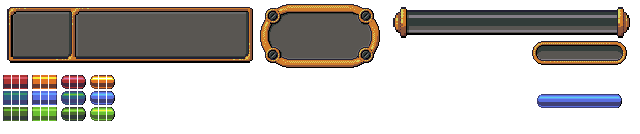
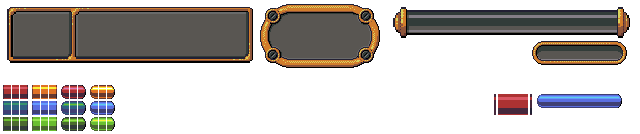
feat[life/super display]: improve render_ui LevelDisplay method to display lives and super duration
add scale_ui method to LevelDisplay to scale the life bar fragments based on max life (yet to show fragments gap), update ui spritesheet, fix typos and types to conform to mypy

Changed region(s): [[0.0, 0.5373, 0.1875, 0.9851], [0.75, 0.6866, 0.8438, 0.8657]]

diff --git a/pacman/views/display/dgame.py b/pacman/views/display/dgame.py
@@ -18,6 +18,7 @@ class LevelDisplay:
 
         self.maze_surf: pg.Surface
         self.characters: dict[str, CharacterSprites]
+        self.life_bar: pg.Surface
 
         self.cell_size: int
         self.cell_gap: int
@@ -26,6 +27,7 @@ class LevelDisplay:
 
         self.render_maze()
         self.scale_characters()
+        self.scale_ui()
 
     def coords(self, x: int, y: int, h_path: float = 0,
                v_path: float = 0) -> tuple[int, int]:
@@ -119,11 +121,33 @@ class LevelDisplay:
                             frame, (self.cell_size, self.cell_size))
                             for frame in frames]})
 
+    def scale_ui(self) -> None:
+        ui_size: tuple[int, int] = (
+            self.display.scaled_ui["level_ui"].get_size())
+        bar_w: int = int(ui_size[1] * 2.92)
+        bar_h: int = int(ui_size[1] * 0.29)
+        life_gap: int = int((self.level.max_lives - 1) / bar_w * 100)
+        life_size: int = int((bar_w - life_gap) / self.level.max_lives)
+        life_part: pg.Surface = pg.transform.scale(
+            self.display.interface["life_bar"], (life_size, bar_h))
+        bar_start: pg.Surface = pg.transform.scale(
+            self.display.interface["life_bar_s"], (ui_size[1] * 0.02, bar_h))
+        bar_end: pg.Surface = pg.transform.scale(
+            self.display.interface["life_bar_e"], (ui_size[1] * 0.02, bar_h))
+        blits: list[tuple[pg.Surface, pg.Rect]] = [
+            (bar_start, pg.Rect(0, 0, 0, 0)),
+            (bar_end, bar_end.get_rect(topright=(bar_w, 0)))]
+        for i in range(self.level.max_lives):
+            blits.insert(0, (
+                life_part, pg.Rect((life_size * i) + (life_gap * i), 0, 0, 0)))
+        self.life_bar = new_surface((bar_w, bar_h))
+        self.life_bar.blits(blits)
+
     def render_entity(
             self, name: str, char: Entity, direction: Directions
             ) -> tuple[pg.Surface, pg.Rect]:
         coords: tuple[int, int] = self.coords(*char.pos)
-        origin: Movements = Movements[
+        origin: tuple[int, int] = Movements[
             OPPOSITE_DIRECTION[direction].name].value
         offset: int = 0
         if char.direction.value != 15:
@@ -148,20 +172,36 @@ class LevelDisplay:
         ui_h: int = ui_surf.get_height()
         ui_w: int = ui_surf.get_width()
         ui_surf.fill((15, 15, 15))
-        level_id: pg.Surface = render_word(self.display.ui_styles["level"],
-            str(self.level.level_id % 100), 0)
-        score: pg.Surface = render_word(self.display.ui_styles["score"],
-            str(self.level.score % 10000), 0)
+        level_id: pg.Surface = render_word(
+            self.display.ui_styles["level"], str(self.level.level_id % 100), 0)
+        score: pg.Surface = render_word(
+            self.display.ui_styles["score"], str(self.level.score % 10000), 0)
         time: int = self.level.level_timer
-        timer: pg.Surface = render_word(self.display.ui_styles["timer"],
+        timer: pg.Surface = render_word(
+            self.display.ui_styles["timer"],
             f"{time // 60:02d}:{time % 60:02d}", 0)
 
-        visual_elements: list[tuple[pg.Surface, pg.Rect]] = [
-            (self.display.scaled_ui["level_ui"], (0, 0)),
+        life_size: tuple[int, int] = self.life_bar.get_size()
+        life_bar: tuple[pg.Surface, pg.Rect, pg.Rect] = (
+            self.life_bar, pg.Rect(ui_h * 5.66, ui_h * 0.175, 0, 0), pg.Rect(
+                0, 0, (life_size[0] - (self.level.max_lives - self.level.lives)
+                       * life_size[0] / self.level.max_lives),
+                life_size[1]))
+
+        super_size: tuple[int, int] = (
+            self.display.scaled_ui["super_bar"].get_size())
+        super_visual: tuple[pg.Surface, pg.Rect, pg.Rect] = (
+            self.display.scaled_ui["super_bar"],
+            pg.Rect(ui_h * 7.46, ui_h * 0.65, 0, 0),
+            pg.Rect(0, 0, self.level.super_anim * super_size[0]
+                    / self.level.super_duration, super_size[1]))
+
+        ui_surf.blits([
+            (self.display.scaled_ui["level_ui"], pg.Rect(0, 0, 0, 0)),
             (level_id, level_id.get_rect(midright=(ui_h * 0.91, ui_h * 0.5))),
             (score, score.get_rect(midright=(ui_h * 3.39, ui_h * 0.5))),
-            (timer, timer.get_rect(center=(ui_w / 2, ui_h / 2)))]
-        ui_surf.blits(visual_elements)
+            (timer, timer.get_rect(center=(ui_w / 2, ui_h / 2))),
+            life_bar, super_visual])
         return (ui_surf, ui_surf.get_rect())
 
     def draw(self) -> None:
@@ -252,7 +292,10 @@ class GameDisplay(Display):
             "pacman/assets/interface/life_and_energy.png")
         self.interface = {
             "level_ui": level_ui_sheet.get_sprite((0, 0), (640, 72)),
-            "super_bar": level_ui_sheet.get_sprite((532, 89), (95, 24))}
+            "life_bar": level_ui_sheet.get_sprite((498, 94), (30, 21)),
+            "life_bar_s": level_ui_sheet.get_sprite((494, 94), (2, 21)),
+            "life_bar_e": level_ui_sheet.get_sprite((530, 94), (2, 21)),
+            "super_bar": level_ui_sheet.get_sprite((537, 94), (85, 14))}
 
     def scale_level_ui(self) -> None:
         ui_h: int = int(self.control.interface.get_height() * 0.15)
@@ -261,7 +304,7 @@ class GameDisplay(Display):
             "level_ui": pg.transform.scale(
                 self.interface["level_ui"], (ui_w, ui_h)),
             "super_bar": pg.transform.scale(
-                self.interface["super_bar"], (ui_w * 0.25, ui_h * 0.3))}
+                self.interface["super_bar"], (ui_h * 1.19, ui_h * 0.19))}
         self.ui_fonts = {
             "level": pg.font.Font(
                 "pacman/assets/fonts/dogica.otf", int(ui_h * 0.45)),
@@ -276,16 +319,15 @@ class GameDisplay(Display):
             "level": Style(
                 color, self.ui_fonts["level"], new_surface(),
                 pg.Rect(ui_h * 0.194, ui_h * 0.194, ui_h * 0.76, ui_h * 0.58),
-                ui_h * 0.35),
+                int(ui_h * 0.35)),
             "score": Style(
                 color, self.ui_fonts["score"], new_surface(),
                 pg.Rect(ui_h * 1.08, ui_h * 0.194, ui_h * 2.33, ui_h * 0.58),
-                ui_h * 0.35),
+                int(ui_h * 0.35)),
             "timer": Style(
                 color, self.ui_fonts["timer"], new_surface(),
                 pg.Rect(ui_h * 3.9, ui_h * 0.2, ui_h * 1.06, ui_h * 0.56),
-                ui_h * 0.27)
-        }
+                int(ui_h * 0.27))}
 
     def load_characters_sprites(self) -> None:
         normal_sht: SpriteSheet = SpriteSheet(
@@ -302,7 +344,7 @@ class GameDisplay(Display):
                 for index in range(3)]
 
         def load_sprites(coords: tuple[int, int], sheet: SpriteSheet
-                         ) -> CharacterSprites:
+                         ) -> dict[str, list[pg.Surface]]:
             return {
                     "UP": get_frames((coords[0], coords[1] + 48), sheet),
                     "RIGHT": get_frames((coords[0], coords[1] + 32), sheet),

diff --git a/pacman/models/level/level.py b/pacman/models/level/level.py
@@ -25,17 +25,19 @@ ANIM_TICK: int = 15
 
 class Level:
     def __init__(
-            self, level_id: int,  player_lives: int, cheats_allowed: bool,
-            maze_config: MazeConfig, gameplay: GameplayConfig,
-            scores_config: ScoresConfig) -> None:
+            self, level_id: int, max_lives: int, player_lives: int,
+            cheats_allowed: bool, maze_config: MazeConfig,
+            gameplay: GameplayConfig, scores_config: ScoresConfig) -> None:
         self.level_id: int = level_id
+        self.max_lives: int = max_lives
         self.lives: int = player_lives
         self.cheats_allowed: bool = cheats_allowed
         self.cheats_used: bool = False
         self.theme: str = gameplay.theme
         self.level_duration: int = gameplay.timer
         self.level_timer: int = gameplay.timer
-        self.super_duration: int = gameplay.super_duration
+        self.super_duration: int = gameplay.super_duration * 1000
+        self.super_anim: int = 0
         self.scores_ref: ScoresConfig = scores_config
         self.score: int = 0
         self.scores: dict[str, int] = {
@@ -140,6 +142,7 @@ class Level:
         self.scores[type] += amount
 
     def activate_super(self) -> None:
+        self.super_anim = self.super_duration
         self.pacman.is_super = True
         self.pacman.current_speed = self.pacman.super_speed
         self.update_entity_timer_instant("Pacman", self.pacman)
@@ -148,9 +151,10 @@ class Level:
                 ghost.is_super = True
                 ghost.current_speed = ghost.super_speed
                 self.update_entity_timer_instant(name, ghost)
-        pg.time.set_timer(Timers.SUPER.value, self.super_duration * 1000, 1)
+        pg.time.set_timer(Timers.SUPER.value, self.super_duration, 1)
 
     def deactivate_super(self) -> None:
+        self.super_anim = 0
         self.pacman.is_super = False
         self.pacman.current_speed = self.pacman.speed
         self.update_entity_timer_instant("Pacman", self.pacman)
@@ -163,6 +167,7 @@ class Level:
         if self.pacman.is_alive is True:
             self.move_pacman()
         else:
+            self.lives -= 1
             self.pacman.is_alive = True
             self.pacman.direction = Directions.NONE
             self.pacman.respawn()
@@ -171,6 +176,10 @@ class Level:
                 ghost.respawn()
 
     def update_animations(self) -> None:
+        if self.pacman.is_super is True:
+            self.super_anim -= ANIM_TICK
+            if self.super_anim < 0:
+                self.super_anim = 0
         if self.pacman.is_alive and self.pacman.direction.value != 15:
             self.char_anim["Pacman"] += ANIM_TICK
             if self.char_anim["Pacman"] > self.pacman.current_speed:
@@ -186,7 +195,7 @@ class Level:
 
     def theoric_position(self, name: str, entity: Entity) -> tuple[int, int]:
         theoric_pos: tuple[int, int] = entity.pos
-        if self.char_anim[name] < entity.current_speed // 2:
+        if self.char_anim[name] < entity.current_speed // 2.2:
             opposite_move: tuple[int, int] = (
                 Movements[OPPOSITE_DIRECTION[entity.direction].name].value)
             theoric_pos = (theoric_pos[0] + opposite_move[0],
@@ -208,7 +217,6 @@ class Level:
             if ghost_pos == pac_pos:
                 if ghost.is_super is False:
                     self.pacman.is_alive = False
-                    self.lives -= 1
                     pg.time.set_timer(Timers.PACMAN.value, 2000, 1)
                 else:
                     self.gain_score("ghost", self.scores_ref.ghost)

diff --git a/pacman/controllers/states/sgame.py b/pacman/controllers/states/sgame.py
@@ -42,7 +42,7 @@ class GameState(State):
         self.player.regen_life(
             self.control.config.levels[self.level_index].gameplay.life_regen)
         self.current_level = Level(
-            self.level_index + 1,
+            self.level_index + 1, self.player.max_lives,
             self.player.lives, self.player.cheats_allowed,
             self.control.config.levels[self.level_index].maze,
             self.control.config.levels[self.level_index].gameplay,
